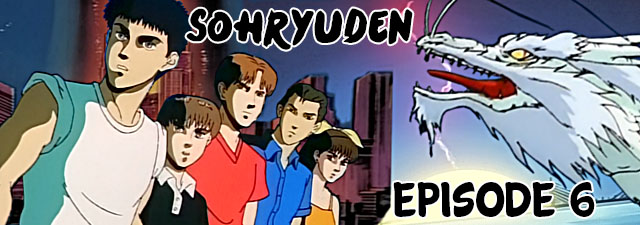
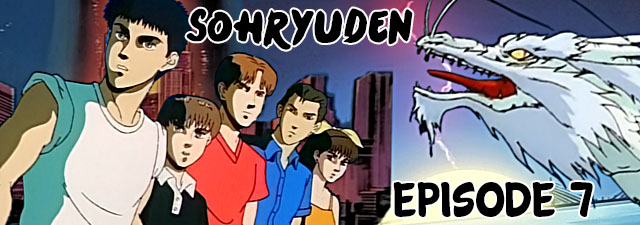
new release

Changed region(s): [[0.875, 0.7778, 0.9375, 0.9644]]

diff --git a/2017-11-10.html b/2017-11-10.html
@@ -1,0 +1,105 @@
+<!DOCTYPE html>
+<html lang="fr-FR">
+	<head>
+		<title>Sohryuden 07 vostfr | Nobluesky Fansub</title>
+		<meta charset="utf-8" />
+		<meta name=viewport content="width=980">
+		<link rel="Shortcut Icon" type="image/x-icon" href="favicon.ico" />
+		<link href="fonts/fonts.css" rel="stylesheet" type="text/css" />
+		<link href="style.css" rel="stylesheet" type="text/css" media="screen" />
+		<link rel="stylesheet" href="menu.css" type="text/css" />
+		<script src="jquery.js" type="text/javascript"></script>
+		<script src="background-script.js" type="text/javascript"></script>
+	</head>
+<body>
+<div class="banner">
+	<a title="Nobluesky Fansub" href="index.html"> <img class="banner" alt="Nobluesky Fansub" title="Nobluesky Fansub" src="images/banner.png"/> </a>
+</div>
+<!-- end banner -->
+<div id="menu-wrapper">
+	<div id="menu">
+		<script type="text/javascript">
+		$( '#menu' ).load( 'menu.html' );
+		</script>
+		<noscript>Activez javascript pour voir le menu!</noscript>
+	</div>
+</div>
+<!-- end #menu -->
+<div id="page-wrapper">
+<div id="sidebar-wrapper">
+	<div id="sidebar">
+		<script type="text/javascript">
+		$( '#sidebar' ).load( 'sidebar.html' );
+		</script>
+	</div>
+	<!-- end #sidebar -->
+</div>
+	<div id="article">
+		<div id="content">
+			<div class="post">
+				<h1 class="title">Sohryuden 07 vostfr</h1>
+				<p class="meta"><span class="date">10 Novembre 2017</span><span class="posted">Posté par <a href="about.html#nobluesky">Nobluesky</a></span></p>
+				<div style="clear: both;">&nbsp;</div>
+				<div class="entry">
+					<img class="post-images" src="images/2017/news15.jpg" alt="" />
+					<p>Bonjour à tous !</p>
+					<p>Voici enfin l'épisode 7 qui pointe le bout de son museau, c'est pas dommage^^</p>
+					<p>Après cette folle destruction, comment les choses vont-elles se passer pour nos héros ? Je vous laisse le découvrir dans cet épisode !</p>
+					<p>Notons que le Fushimi Inari-taisha est un sanctuaire Shinto de Kyoto, bien connu pour ses milliers de Torii qui attirent les touristes en masse. Inari est un dieu/déesse très populaire au Japon qui peut se métamorphoser en renard, et ses temples sont donc ornés de statues d'esprits renards ou kitsune, messagers d'Inari (merci captain obvious pour ces explications).</p>
+					<p>Voilà, c'est tout pour cette fois, on se revoit probablement entre fin décembre et début janvier, l'avenir nous le dira.</p>
+					<p>Merci de votre patience et bon visionnage ;)</p>
+					<h3>Téléchargements et streaming</h3>
+					<p class="links dl"><a href="http://ddl.nobluesub.com/sohryuden.html" class="button-dl">Dédié</a></p>&nbsp; | &nbsp;
+					<p class="links dl"><a href="http://jheberg.net/captcha/nobluesub-sohryuden-07-640x480-x264/" class="button-dl">Jheberg</a></p>&nbsp; | &nbsp;
+					<p class="links dl"><a href="https://rutube.ru/video/68c5c7cc1d6f4897929cd27ad0aea382/" class="button-dl">Rutube</a></p>&nbsp; | &nbsp;
+					<p class="links dl"><a href="https://mega.nz/#!bV0kSCqK!uTtWJqqS5PtXATuJt9NKzt_IvR1BCE1xZXj2UuI5cuM" class="button-dl">Mega</a></p>
+					<h3>Commentaires</h3>
+					<div id="disqus_thread"></div>
+					<script type="text/javascript">
+						/* * * CONFIGURATION VARIABLES: EDIT BEFORE PASTING INTO YOUR WEBPAGE * * */
+						var disqus_shortname = 'noblueskyfansub'; // required: replace example with your forum shortname
+
+						/* * * DON'T EDIT BELOW THIS LINE * * */
+						(function() {
+							var dsq = document.createElement('script'); dsq.type = 'text/javascript'; dsq.async = true;
+							dsq.src = '//' + disqus_shortname + '.disqus.com/embed.js';
+							(document.getElementsByTagName('head')[0] || document.getElementsByTagName('body')[0]).appendChild(dsq);
+						})();
+					</script>
+					<noscript>Activez javascript pour voir les commentaires.</noscript>
+					<a href="http://disqus.com" class="dsq-brlink">commentaires propulsés par <span class="logo-disqus">Disqus</span></a>
+				</div>
+			</div>
+			<div style="clear: both;">&nbsp;</div>
+		</div>
+		<!-- end #content -->
+		<div style="clear: both;">&nbsp;</div>
+	</div>
+</div>
+<!-- end #page -->
+<script type="text/javascript">
+$(window).scroll(function() {
+    if ($(this).scrollTop() < 1000) {
+        $("#footer").hide();
+    }
+    else {
+        $("#footer").show();
+    }
+});
+$(window).scroll(function() {
+  if ($(this).scrollTop() < 1000) {
+    $("footer").slideUp();
+      }
+  else {
+    $("footer").slideDown();
+      }
+});		
+</script>
+<div id="footer">
+	<script type="text/javascript">
+	$( '#footer' ).load( 'footer.html' );
+	</script>
+</div>
+<!-- end #footer -->
+</body>
+</html>

diff --git a/index.html b/index.html
@@ -35,7 +35,7 @@
 <div id="page-wrapper">
 	<div class="slider-wrapper theme-default">
 		<div id="slider" class="nivoSlider">
-			<a href="2017-10-02.html"><img src="images/img02.jpg" alt="" /></a><a href="2017-08-23.html"><img src="images/img01.jpg" alt="" /></a>
+			<a href="2017-11-10.html"><img src="images/img01.jpg" alt="" /></a><a href="2017-10-02.html"><img src="images/img02.jpg" alt="" /></a>
 		</div>
 	</div>
 <script type="text/javascript">
@@ -148,7 +148,7 @@
 			</div>
 			<script type="text/javascript">
 			$(".post").each(function() {
-			$(this).html($(this).html().replace(/#urlpost1/g, '2017-10-02.html').replace(/#urlpost2/g, '2017-09-19.html').replace(/#urlpost3/g, '2017-09-02.html').replace(/#urlpost4/g, '2017-08-28.html').replace(/#urlpost5/g, '2017-08-23.html'));
+			$(this).html($(this).html().replace(/#urlpost1/g, '2017-11-10.html').replace(/#urlpost2/g, '2017-10-02.html').replace(/#urlpost3/g, '2017-09-19.html').replace(/#urlpost4/g, '2017-09-02.html').replace(/#urlpost5/g, '2017-08-28.html'));
 			});
 			</script>
 			<div id="button-page-wrapper">

diff --git a/sohryuden.html b/sohryuden.html
@@ -81,6 +81,11 @@
 					<p class="links dl"><a href="http://jheberg.net/captcha/nobluesub-sohryuden-06-640x480-x264-2/" class="button-dl">Jheberg</a></p>&nbsp; | &nbsp;
 					<p class="links dl"><a href="https://rutube.ru/video/0e8af5ea85a85025971fbeb59e84a1ac/" class="button-dl">Rutube</a></p>&nbsp; | &nbsp;
 					<p class="links dl"><a href="https://mega.nz/#!2AURDAKT!yur83eC9YA5XfWMRWfBCzYiI5g6ZoR6_qulkLydL66E" class="button-dl">Mega</a></p>
+					<br>
+					Episode 7 :
+					<p class="links dl"><a href="http://jheberg.net/captcha/nobluesub-sohryuden-07-640x480-x264/" class="button-dl">Jheberg</a></p>&nbsp; | &nbsp;
+					<p class="links dl"><a href="https://rutube.ru/video/68c5c7cc1d6f4897929cd27ad0aea382/" class="button-dl">Rutube</a></p>&nbsp; | &nbsp;
+					<p class="links dl"><a href="https://mega.nz/#!bV0kSCqK!uTtWJqqS5PtXATuJt9NKzt_IvR1BCE1xZXj2UuI5cuM" class="button-dl">Mega</a></p>
 				</div>
 			</div>
 			<div style="clear: both;">&nbsp;</div>

diff --git a/page2.html b/page2.html
@@ -136,7 +136,7 @@
 			</div>
 			<script type="text/javascript">
 			$(".post").each(function() {
-			$(this).html($(this).html().replace(/#urlpost6/g, '2017-08-18.html').replace(/#urlpost7/g, '2017-08-11.html').replace(/#urlpost8/g, '2017-08-06.html').replace(/#urlpost9/g, '2017-07-28.html').replace(/#urlpost10/g, '2017-07-19.html'));
+			$(this).html($(this).html().replace(/#urlpost6/g, '2017-08-23.html').replace(/#urlpost7/g, '2017-08-18.html').replace(/#urlpost8/g, '2017-08-11.html').replace(/#urlpost9/g, '2017-08-06.html').replace(/#urlpost10/g, '2017-07-28.html'));
 			});
 			</script>
 			<div id="button-page-wrapper">

diff --git a/archives.html b/archives.html
@@ -47,6 +47,7 @@
 					<div>
 					<!-- here comes spoiler content -->
 					<div style="clear: both;">&nbsp;</div>
+					<p><a href="2017-07-19.html" target="_blank" >chargement en cours...</a></p>
 					<p><a href="2017-06-28.html" target="_blank" >chargement en cours...</a></p>
 					<p><a href="2017-04-30.html" target="_blank" >chargement en cours...</a></p>
 					<p><a href="2017-02-21.html" target="_blank" >chargement en cours...</a></p>

diff --git a/sidebar.html b/sidebar.html
@@ -31,9 +31,9 @@
 		<li>
 			<h2>Avancements</h2>
 			<ul id="avancements" style="list-style: none!important;">
-				<li>Sohryuden 07 : 75%
+				<li>Sohryuden 07 : 100%
 					<div class="progress-bar blue stripes" title="Progression" >
-					<span style="width: 75%"></span>
+					<span style="width: 100%"></span>
 					</div>
 				</li>
 			</ul>
